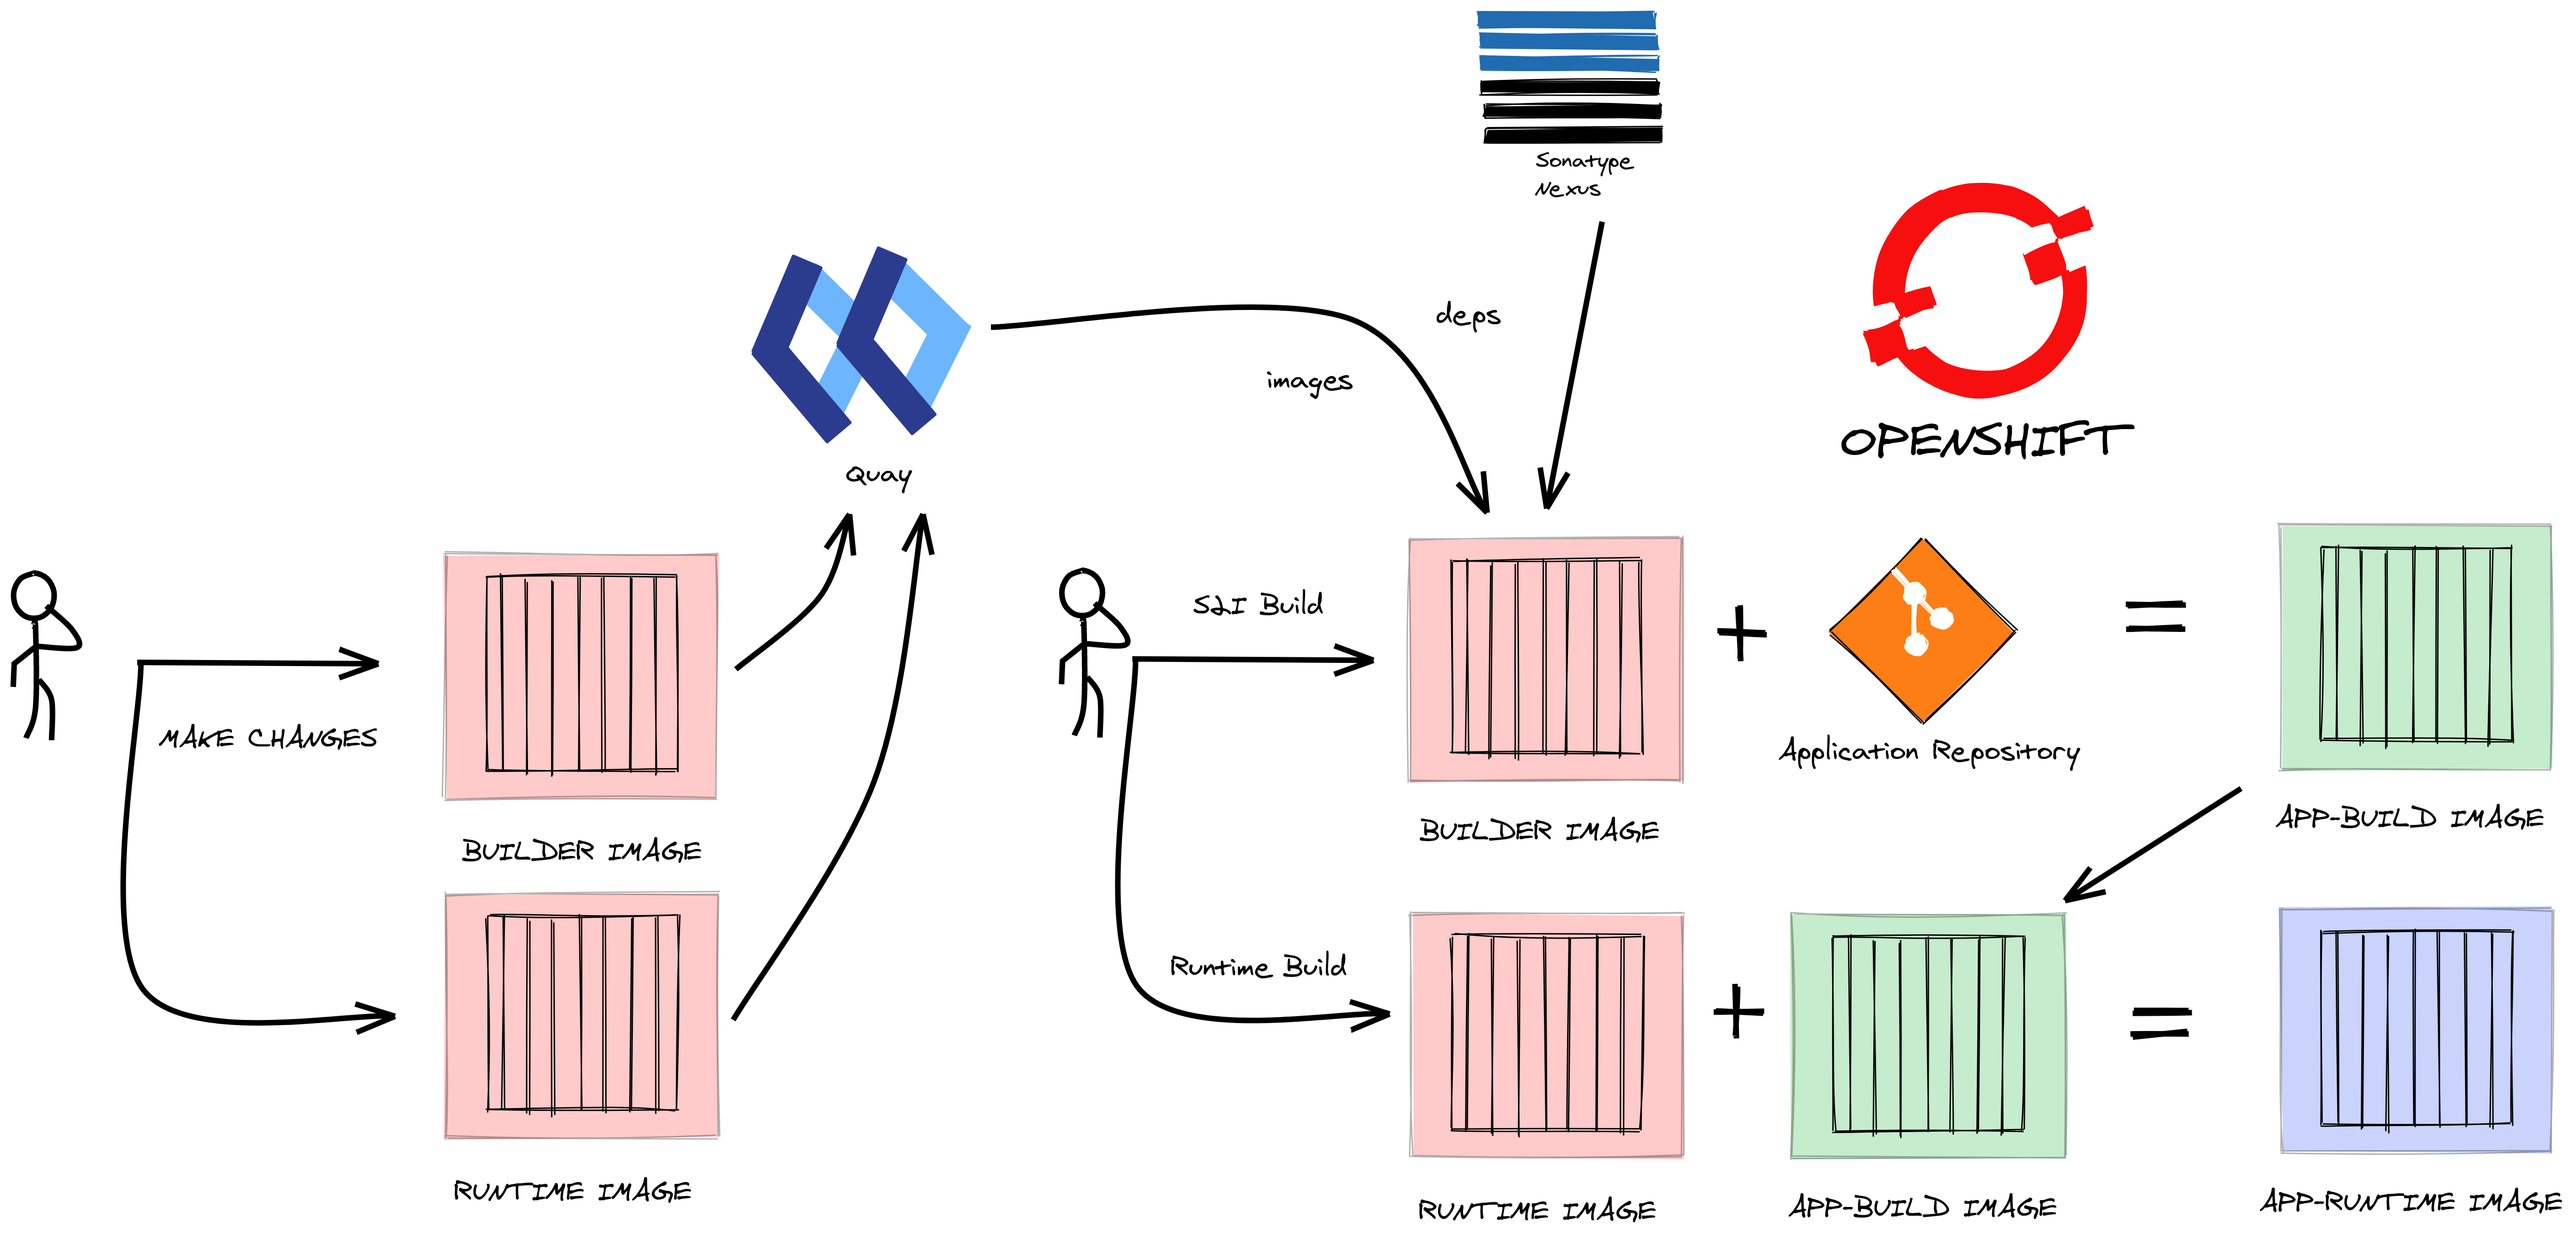
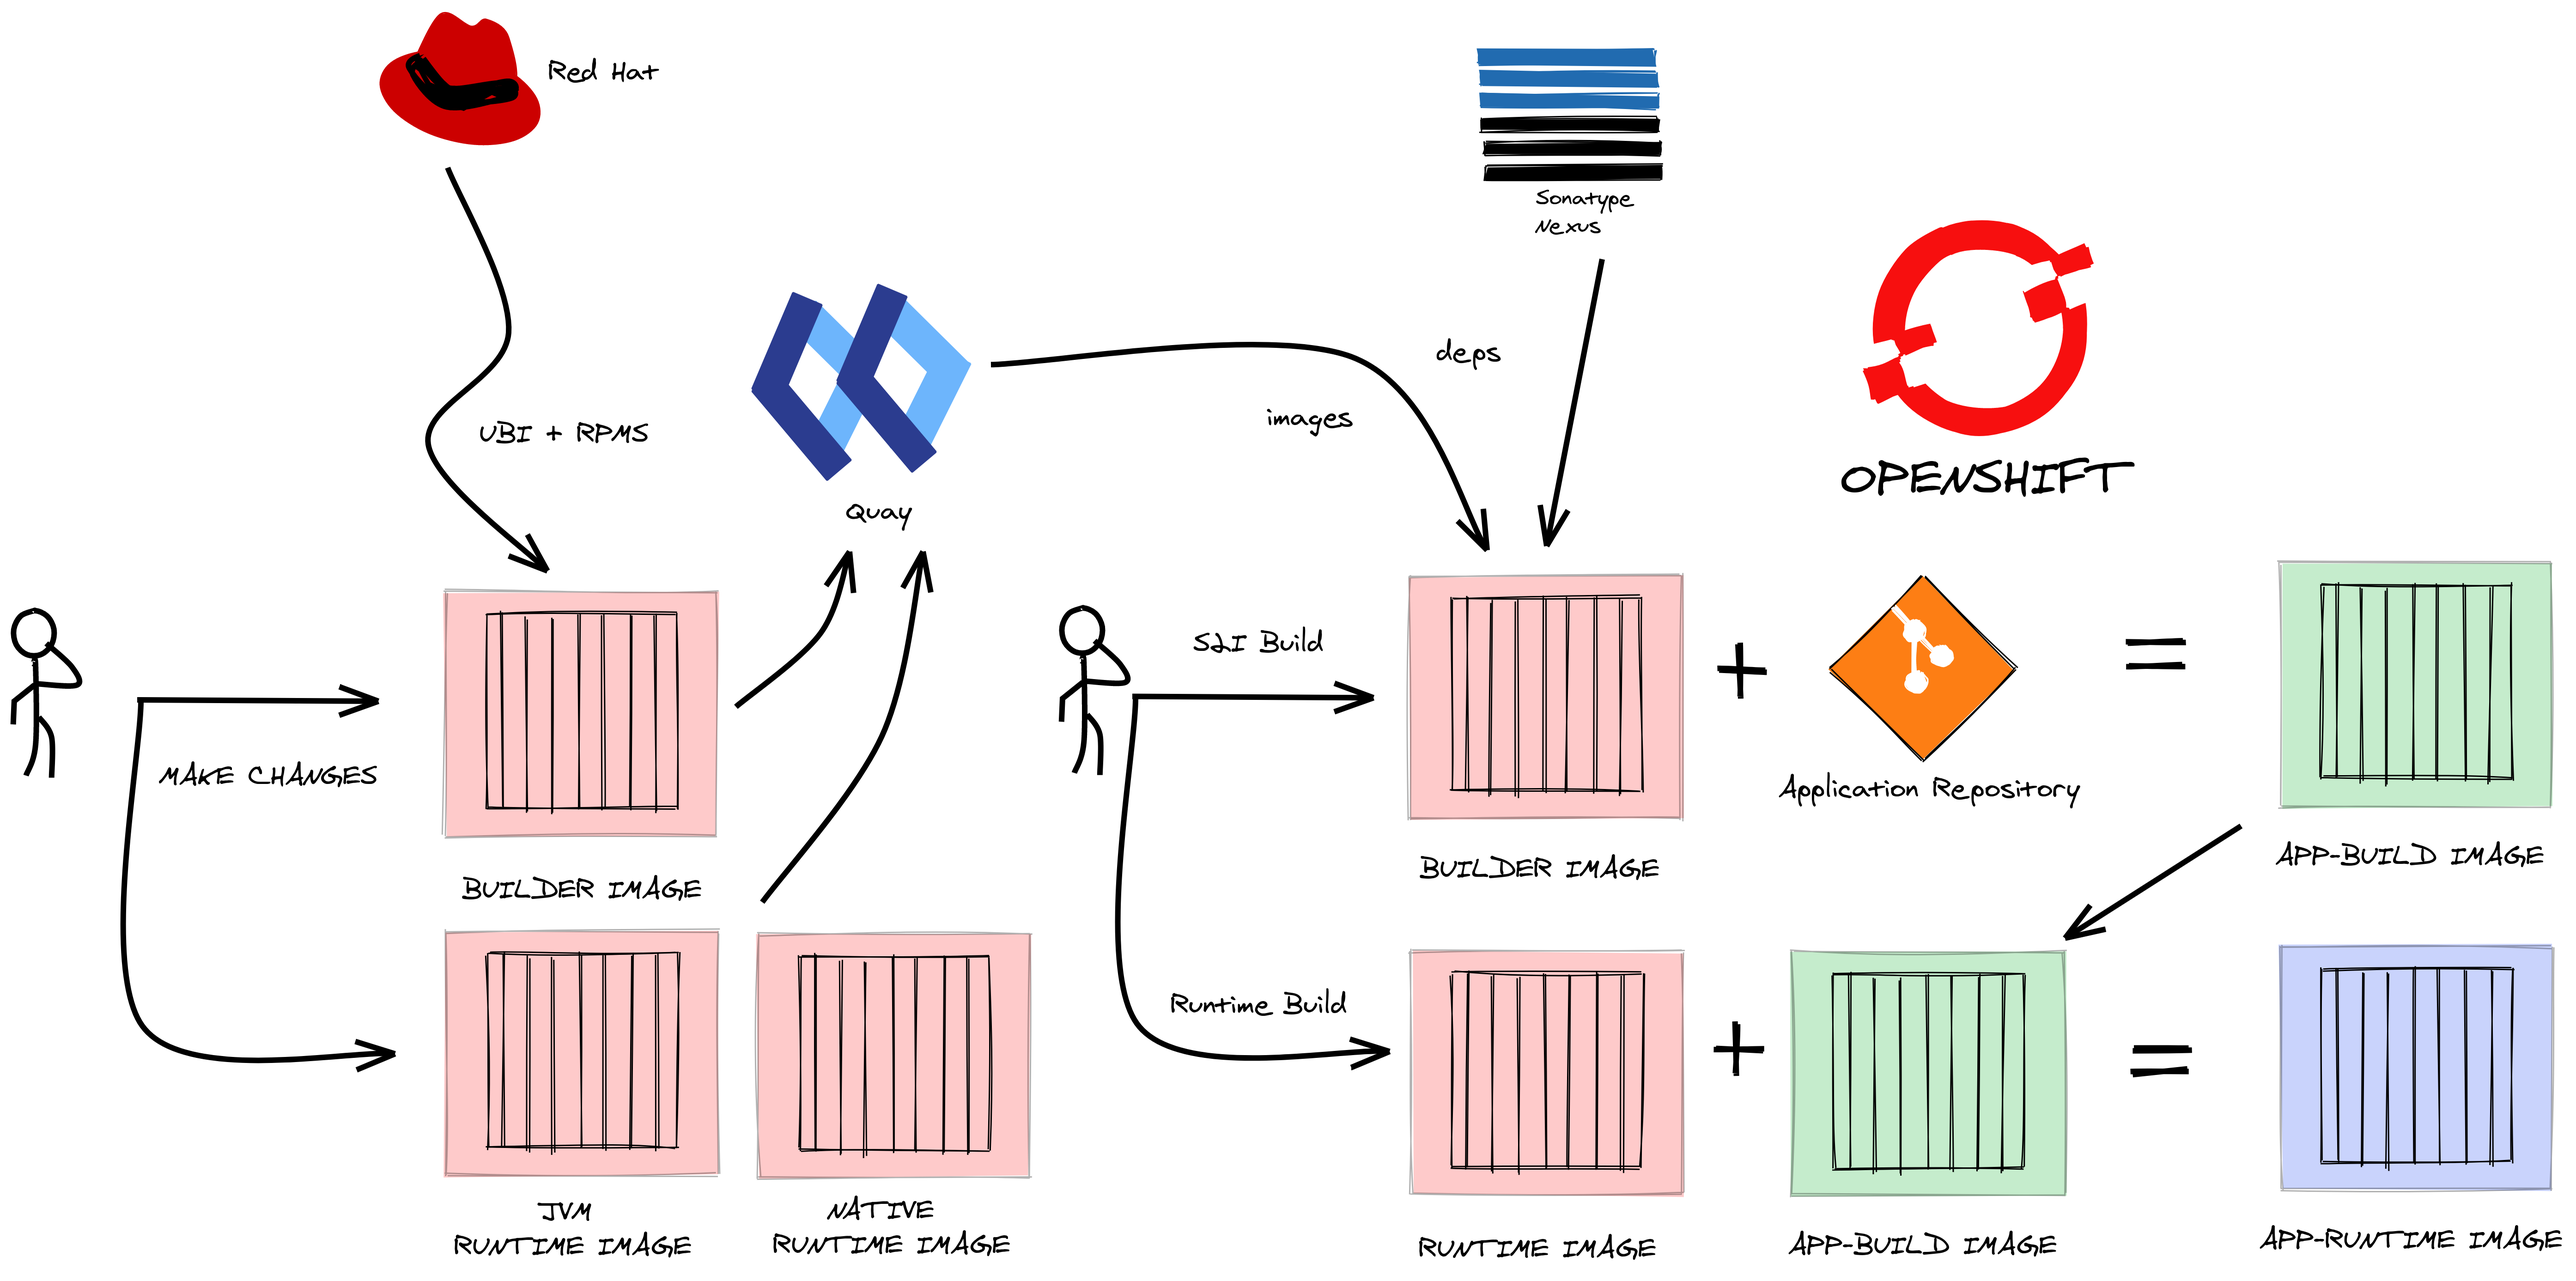
🦚 change project structure to better match names 🦚

diff --git a/README.md b/README.md
@@ -10,6 +10,16 @@
 > ⚡⚡⚡ Runtime:
 >   - UBI 8.5 Minimal
 >   - Your Application
+>
+> 🐒🐒🐒 Why do this ?
+>   - Latest Java toolchain
+>   - A [Secure Supply Chain](https://www.redhat.com/en/blog/architecting-containers-part-5-building-secure-and-manageable-container-software-supply-chain)
+>   - Smaller image sizes, less attack surface:
+>       - Builder image size            = 522 MiB
+>       - JVM runtime image size        = 128 MiB
+>       - JVM application image size    = 143 MiB
+>       - Native runtime image size     = 43 MiB
+>       - Native application image size = 75 MiB
 
 1. Create the base s2i core build image and push to remote repo for reuse across clusters.
 
@@ -18,38 +28,55 @@
     podman push quay.io/eformat/ubi-mvn-builder:latest
     ```
 
-2. Create the middleware runtimes and push to remote repo for reuse across clusters.
-
-    ```bash
-    podman build --squash -t quay.io/eformat/ubi-mvn-builder-middle-jvm:latest -f middleware/Dockerfile.jvm
-    podman push quay.io/eformat/ubi-mvn-builder-middle-jvm:latest
-
-    podman build --squash -t quay.io/eformat/ubi-mvn-builder-middle-native:latest -f middleware/Dockerfile.native
-    podman push quay.io/eformat/ubi-mvn-builder-middle-native:latest
-    ```
-
-3. Login to OpenShift and create an s2i build for your application.
+2. Create the runtimes and push to remote repo for reuse across clusters.
 
     `JVM fast-jar`
     ```bash
-    oc new-build --name=jvm-build quay.io/eformat/ubi-mvn-builder:latest~https://github.com/eformat/code-with-quarkus -e MAVEN_BUILD_OPTS="-Dquarkus.package.type=fast-jar -DskipTests" -e MAVEN_CLEAR_REPO="true"
+    podman build --squash -t quay.io/eformat/ubi-mvn-runtime-jvm:latest -f runtime/Dockerfile.jvm
+    podman push quay.io/eformat/ubi-mvn-runtime-jvm:latest
+    ```
+
+    `Native binary`
+    ```
+    podman build --squash -t quay.io/eformat/ubi-mvn-runtime-native:latest -f runtime/Dockerfile.native
+    podman push quay.io/eformat/ubi-mvn-runtime-native:latest
+    ```
+
+3. Login to OpenShift, create a project then create the s2i build for your applications.
+
+    ```bash
+    oc new-project demo
+    ```
+
+    `JVM fast-jar`
+    ```bash
+    oc new-build --name=jvm-build \
+      quay.io/eformat/ubi-mvn-builder:latest~https://github.com/eformat/code-with-quarkus \
+      -e MAVEN_BUILD_OPTS="-Dquarkus.package.type=fast-jar -DskipTests" \
+      -e MAVEN_CLEAR_REPO="true"
     ```
 
     `Native binary`
     ```bash
-    oc new-build --name=native-build quay.io/eformat/ubi-mvn-builder:latest~https://github.com/eformat/code-with-quarkus -e MAVEN_CLEAR_REPO="true"
+    oc new-build --name=native-build \
+      quay.io/eformat/ubi-mvn-builder:latest~https://github.com/eformat/code-with-quarkus \
+      -e MAVEN_CLEAR_REPO="true"
     ```
 
 4. Build runtime Applications.
 
     `JVM fast-jar`
     ```bash
-    oc new-build --name=jvm --strategy docker --dockerfile - < ./runtime/Dockerfile.jvm
+    oc new-build --name=jvm \
+      --build-arg BUILD_IMAGE=image-registry.openshift-image-registry.svc:5000/$(oc project -q)/jvm-build:latest \
+      --strategy docker --dockerfile - < ./application/Dockerfile.jvm
     ```
 
     `Native binary`
     ```bash
-    oc new-build --name=native --strategy docker --dockerfile - < ./runtime/Dockerfile.native
+    oc new-build --name=native \
+      --build-arg BUILD_IMAGE=image-registry.openshift-image-registry.svc:5000/$(oc project -q)/native-build:latest \
+      --strategy docker --dockerfile - < ./application/Dockerfile.native
     ```
 
 5. Deploy Applications.
@@ -58,14 +85,16 @@
     ```bash
     oc new-app jvm
     oc expose svc/jvm
-    oc patch route/jvm --type=json -p '[{"op":"add", "path":"/spec/tls", "value":{"termination":"edge","insecureEdgeTerminationPolicy":"Redirect"}}]'
+    oc patch route/jvm \
+      --type=json -p '[{"op":"add", "path":"/spec/tls", "value":{"termination":"edge","insecureEdgeTerminationPolicy":"Redirect"}}]'
     ```
 
     `Native binary`
     ```bash
     oc new-app native
     oc expose svc/native
-    oc patch route/native --type=json -p '[{"op":"add", "path":"/spec/tls", "value":{"termination":"edge","insecureEdgeTerminationPolicy":"Redirect"}}]'
+    oc patch route/native \
+      --type=json -p '[{"op":"add", "path":"/spec/tls", "value":{"termination":"edge","insecureEdgeTerminationPolicy":"Redirect"}}]'
     ```
 
 ### Create triggers
